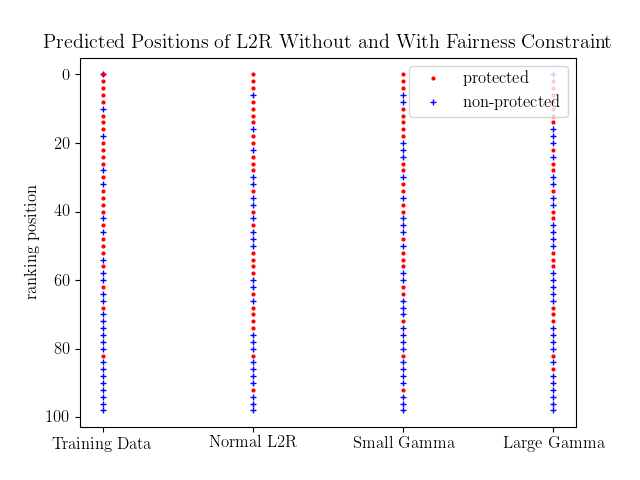
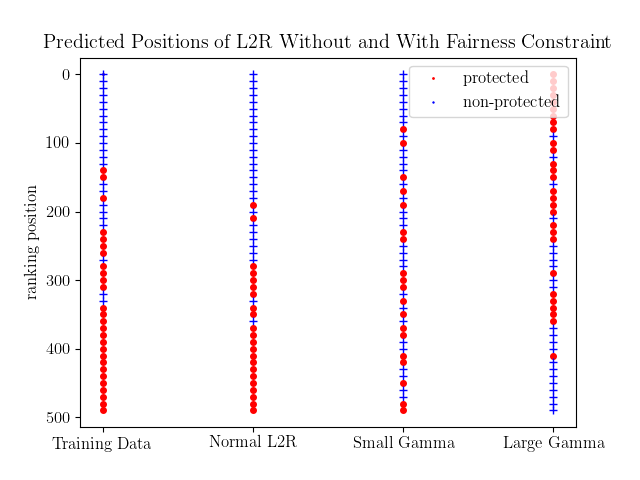
adjusted plots

diff --git a/src/visualization/plot_rankings_only_protection_status.py b/src/visualization/plot_rankings_only_protection_status.py
@@ -13,7 +13,7 @@ PROT_COL = 0
 PROT_ATTR = 1
 
 
-def plot_rankings(input_file1, input_file2, input_file3, input_file4, output_file, k):
+def plot_rankings(input_file1, input_file2, input_file3, input_file4, output_file, k, step_size):
     mpl.rcParams.update({'font.size': 12, 'lines.linewidth': 3, 'lines.markersize': 15, 'font.family':'Times New Roman'})
     # avoid type 3 (i.e. bitmap) fonts in figures
     mpl.rcParams['ps.useafm'] = True
@@ -24,36 +24,36 @@ def plot_rankings(input_file1, input_file2, input_file3, input_file4, output_fil
     f, ax = plt.subplots()
 
     # Generate dummy info for plot handles "h"
-    red_circle, = plt.plot(1, 0, 'ro', ms=2, label="protected")
-    blue_plus, = plt.plot(1, 0, 'b+', ms=4, label="non-protected");
+    red_circle, = plt.plot(1, 0, 'ro', ms=1, label="protected")
+    blue_plus, = plt.plot(1, 0, 'b+', ms=1, label="non-protected");
 
     data = pd.read_csv(input_file1, sep=",", header=None)
-    for i in range(0, k, 2):
+    for i in range(0, k, step_size):
         if data.iloc[i][1] == PROT_ATTR:
-            plt.plot(1, i, 'ro', ms=2);  # , 'markersize', 5, 'markerfacecolor', 'r');
+            plt.plot(1, i, 'ro', ms=4);  # , 'markersize', 5, 'markerfacecolor', 'r');
         else:
-            plt.plot(1, i, 'b+', ms=4);  # , 'markersize', 5, 'markerfacecolor', 'b', 'LineWidth', 2);
+            plt.plot(1, i, 'b+', ms=6);  # , 'markersize', 5, 'markerfacecolor', 'b', 'LineWidth', 2);
 
     data = pd.read_csv(input_file2, sep=",", header=None)
-    for i in range(0, k, 2):
+    for i in range(0, k, step_size):
         if data.iloc[i][PROT_COL] == PROT_ATTR:
-            plt.plot(2, i, 'ro', ms=2);  # , 'markersize', 5, 'markerfacecolor', 'r');
+            plt.plot(2, i, 'ro', ms=4);  # , 'markersize', 5, 'markerfacecolor', 'r');
         else:
-            plt.plot(2, i, 'b+', ms=4);  # , 'markersize', 5, 'markerfacecolor', 'b', 'LineWidth', 2);
+            plt.plot(2, i, 'b+', ms=6);  # , 'markersize', 5, 'markerfacecolor', 'b', 'LineWidth', 2);
 
     data = pd.read_csv(input_file3, sep=",", header=None)
-    for i in range(0, k, 2):
+    for i in range(0, k, step_size):
         if data.iloc[i][PROT_COL] == PROT_ATTR:
-            plt.plot(3, i, 'ro', ms=2);  # , 'markersize', 5, 'markerfacecolor', 'r');
+            plt.plot(3, i, 'ro', ms=4);  # , 'markersize', 5, 'markerfacecolor', 'r');
         else:
-            plt.plot(3, i, 'b+', ms=4);  # , 'markersize', 5, 'markerfacecolor', 'b', 'LineWidth', 2);
+            plt.plot(3, i, 'b+', ms=6);  # , 'markersize', 5, 'markerfacecolor', 'b', 'LineWidth', 2);
 
     data = pd.read_csv(input_file4, sep=",", header=None)
-    for i in range(0, k, 2):
+    for i in range(0, k, step_size):
         if data.iloc[i][PROT_COL] == PROT_ATTR:
-            plt.plot(4, i, 'ro', ms=2);  # , 'markersize', 5, 'markerfacecolor', 'r');
+            plt.plot(4, i, 'ro', ms=4);  # , 'markersize', 5, 'markerfacecolor', 'r');
         else:
-            plt.plot(4, i, 'b+', ms=4);  # , 'markersize', 5, 'markerfacecolor', 'b', 'LineWidth', 2);
+            plt.plot(4, i, 'b+', ms=6);  # , 'markersize', 5, 'markerfacecolor', 'b', 'LineWidth', 2);
 
     plt.gca().invert_yaxis()
     plt.ylabel ("ranking position");

diff --git a/src/visualization/run_synthetic_visualization.py b/src/visualization/run_synthetic_visualization.py
@@ -31,4 +31,4 @@ input_file3 = '../../octave-src/sample/synthetic_score_gender/distribution_based
 input_file4 = '../../octave-src/sample/synthetic_score_gender/distribution_based/sample_test_data_scoreAndGender_normalDistribution_GAMMA_LARGE.txt.pred'
 output_file = '../../plots/synthetic/separated/top_male_bottom_female/result_plots/normal_distribution/rankings_group_property_only.png'
 
-pltres.plot_rankings(input_file1, input_file2, input_file3, input_file4, output_file, k)
+pltres.plot_rankings(input_file1, input_file2, input_file3, input_file4, output_file, 500, 10)

diff --git a/src/visualization/distribution.py b/src/visualization/distribution.py
@@ -45,7 +45,7 @@ def plot(data_set, attributeNamesAndCategories, attributeQuality, filename, labe
 
 
     colors = ['red', 'blue', 'green']
-    markers = ['-o', '-<', '-s', '-+', '-d']
+    markers = ['-o', '-+', '-s', '-+', '-d']
 #     label=['Male-married','Male-single','Male-divorced','Female']
 #     label=['German','Turkish','Yugoslavian','Greek','Italian']
 #     label=['German','Other','Asylum','EU Country']
